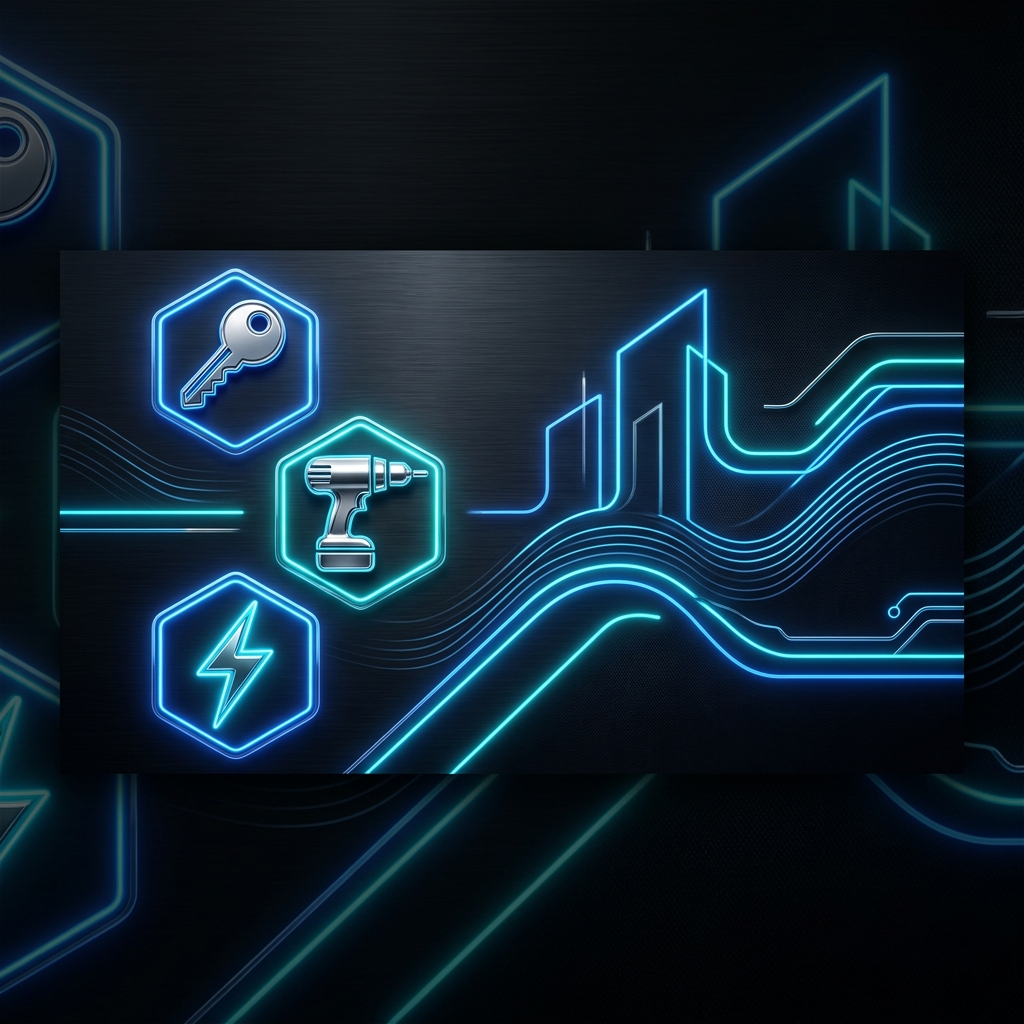
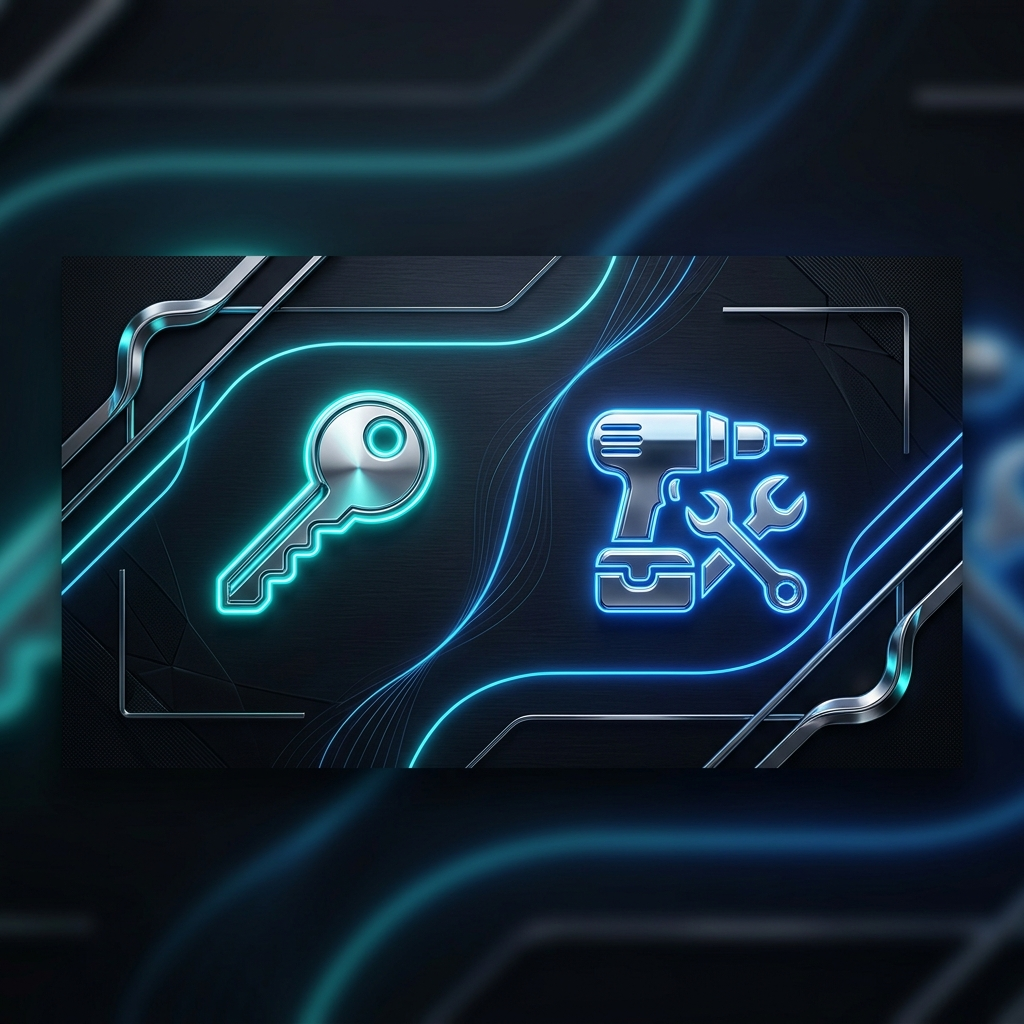
Remove electrical services from active templates and add Telegram notifier script with .gitignore

diff --git a/app.js b/app.js
@@ -23,17 +23,17 @@ const agentTemplates = {
     marketing: [
         {
             title: "🏠 פתרון כולל לבית (מטריית שירותים)",
-            text: "הכתובת שלכם לכל תיקון ושדרוג בבית! 🛠⚡🔑\n\nנמאס לכם לחפש בעל מקצוע שונה לכל בעיה קטנה בבית, או לחכות שעות למישהו שיגיע מרחוק ויגבה מחיר מופקע?\n\nZA - פתרונות ושירותי בית מביא לכם את השקט הנפשי שאתם צריכים, כאן בירוחם והסביבה.\n\nאנו מרכזים עבורכם את כל פתרונות התחזוקה תחת קורת גג אחת:\n🔑 נעילה ואבטחה: פריצה שקטה, החלפת צילינדרים איכותיים, ותיקון מנגנונים.\n🛠 תיקונים והתקנות (הנדימן): תליית טלוויזיות, הרכבת רהיטים, מדפים, ותיקונים כלליים.\n⚡ עבודות חשמל ותשתיות: גופי תאורה, פתרון תקלות וקצרים, והתקנת מערכות חשמל.\n\nמתחייב לעבודה מקצועית, פילוס מדויק, שמירה על סדר וניקיון מופתי בסיום העבודה, ומחיר הוגן ושקוף!\n\n📞 לתיאום והתייעצות מהירה, שלחו לנו הודעה בוואטסאפ או התקשרו: [טלפון]",
+            text: "הכתובת שלכם לכל תיקון, התקנה ונעילה בבית! 🛠🔑\n\nנמאס לכם לחפש בעל מקצוע שונה לכל בעיה קטנה בבית, או לחכות שעות למישהו שיגיע מרחוק ויגבה מחיר מופקע?\n\nZA - פתרונות ושירותי בית מביא לכם את השקט הנפשי שאתם צריכים, כאן בירוחם והסביבה.\n\nאנו מרכזים עבורכם את כל פתרונות התחזוקה והנעילה לבית:\n🔑 נעילה ואבטחה: פריצה שקטה, החלפת צילינדרים איכותיים (רב-בריח, מולטילוק ועוד), ותיקון מנגנונים.\n🛠 תיקונים והתקנות (הנדימן): תליית טלוויזיות, הרכבת רהיטים, מדפים, ותיקונים כלליים.\n\nמתחייב לעבודה מקצועית, פילוס מדויק, שמירה על סדר וניקיון מופתי בסיום העבודה, ומחיר הוגן ושקוף!\n\n📞 לתיאום והתייעצות מהירה, שלחו לנו הודעה בוואטסאפ או התקשרו: [טלפון]",
             placeholder: "הכנס את מספר הטלפון שלך"
         },
         {
             title: "🔒 בטיחות, נעילה ותחזוקת הבית",
-            text: "שומרים על הבית בטוח ותקין - ZA פתרונות ושירותי בית 🔒⚡\n\nהקיץ מתקרב וזה הזמן לוודא שהבית שלכם בטוח לחלוטין - הן מבחינת מערכות הנעילה והן מבחינת בטיחות החשמל.\n\nאנו מציעים שירות מקיף לבדיקה, תיקון ושדרוג הבית שלכם:\n* בטיחות נעילה: שדרוג לצילינדרים מוגני פריצה בדלתות הכניסה.\n* תקינות חשמל: התקנת שקעים, בדיקת לוחות חשמל, מניעת עומסים והתקנת גופי תאורה חסכוניים.\n* תחזוקה שוטפת: פתרון בעיות בלאי בבית, תליית אביזרים והתקנות.\n\nשירות מקומי מהיר בירוחם והסביבה. אמינות ללא פשרות ומחירים הגונים לתושבי האזור.\n\n📞 לתיאום ביקור או בדיקה: [טלפון]",
+            text: "שומרים על הבית בטוח ותקין - ZA פתרונות ושירותי בית 🔒🛠\n\nהקיץ מתקרב וזה הזמן לוודא שמערכות הנעילה והדלתות בבית שלכם בטוחות לחלוטין ותקינות.\n\nאנו מציעים שירות מקיף לבדיקה, תיקון ושדרוג מערכות הנעילה והתחזוקה בבית:\n* בטיחות נעילה: שדרוג לצילינדרים מוגני פריצה בדלתות הכניסה.\n* תיקון דלתות: פתרון לדלתות גוררות, מפתחות קשים לסיבוב או מנגנונים תקועים.\n* תחזוקה כללית: פתרון בעיות בלאי בבית, חיזוק צירים, ותיקונים קטנים.\n\nשירות מקומי מהיר בירוחם והסביבה. אמינות ללא פשרות ומחירים הגונים לתושבי האזור.\n\n📞 לתיאום ביקור או בדיקה: [טלפון]",
             placeholder: "הכנס את מספר הטלפון שלך"
         },
         {
             title: "🖥 פרויקטים, הרכבות ותלייה",
-            text: "קניתם רהיט או טלוויזיה חדשה? תשאירו את העבודה הקשה לנו! 🖥🛋\n\nעברתם דירה? רוצים לחדש את מראה הבית? אל תבזבזו את סוף השבוע שלכם על מדידות, הוראות הרכבה מסובכות או פחד שהקיר לא יחזיק.\n\nZA - פתרונות ושירותי בית מגיע אליכם לעשות סדר:\n* הרכבה מקצועית ומהירה של ארונות, שידות ורהיטים מכל הסוגים (איקאה ועוד).\n* תליית מסכי טלוויזיה בזווית מושלמת (כולל קירות גבס ובטון).\n* התקנת מדפים, וילונות, תמונות ואביזרי אמבטיה בפילוס מושלם.\n* עבודות נעילה וחשמל נלוות לפי הצורך.\n\nמתחייב לעבודה סופר-נקייה (לא משאירים אבק מאחורינו!) ושירות הוגן ואדיב.\n\n📞 להזמנת שירות או לקבלת הערכת מחיר: [טלפון]",
+            text: "קניתם רהיט או טלוויזיה חדשה? תשאירו את העבודה הקשה לנו! 🖥🛋\n\nעברתם דירה? רוצים לחדש את מראה הבית? אל תבזבזו את סוף השבוע שלכם על מדידות, הוראות הרכבה מסובכות או פחד שהקיר לא יחזיק.\n\nZA - פתרונות ושירותי בית מגיע אליכם לעשות סדר:\n* הרכבה מקצועית ומהירה של ארונות, שידות ורהיטים מכל הסוגים (איקאה ועוד).\n* תליית מסכי טלוויזיה בזווית מושלמת (כולל קירות גבס ובטון).\n* התקנת מדפים, וילונות, תמונות ואביזרי אמבטיה בפילוס מושלם.\n* עבודות נעילה ותיקונים נלווים לפי הצורך.\n\nמתחייב לעבודה סופר-נקייה (לא משאירים אבק מאחורינו!) ושירות הוגן ואדיב.\n\n📞 להזמנת שירות או לקבלת הערכת מחיר: [טלפון]",
             placeholder: "הכנס את מספר הטלפון שלך"
         }
     ],

diff --git a/telegram_notifier.py b/telegram_notifier.py
@@ -1,0 +1,145 @@
+import json
+import urllib.request
+import urllib.parse
+import sys
+import datetime
+import os
+
+# Configuration path
+CONFIG_PATH = r"C:\antigravety\projects\business_manager\config.json"
+
+# AD templates (Locksmithing & Handyman only - no electrical)
+ad_options = {
+    1: """🏠 *אפשרות 1: פתרון כולל לבית (מטריית שירותים)*
+
+הכתובת שלכם לכל תיקון, התקנה ונעילה בבית! 🛠🔑
+
+נמאס לכם לחפש בעל מקצוע שונה לכל בעיה קטנה בבית, או לחכות שעות למישהו שיגיע מרחוק ויגבה מחיר מופקע?
+
+ZA - פתרונות ושירותי בית מביא לכם את השקט הנפשי שאתם צריכים, כאן בירוחם והסביבה.
+
+אנו מרכזים עבורכם את כל פתרונות התחזוקה והנעילה לבית:
+🔑 נעילה ואבטחה: פריצה שקטה, החלפת צילינדרים איכותיים (רב-בריח, מולטילוק ועוד), ותיקון מנגנונים.
+🛠 תיקונים והתקנות (הנדימן): תליית טלוויזיות, הרכבת רהיטים, מדפים, ותיקונים כלליים.
+
+מתחייב לעבודה מקצועית, פילוס מדויק, שמירה על סדר וניקיון מופתי בסיום העבודה, ומחיר הוגן ושקוף!""",
+    
+    2: """🔒 *אפשרות 2: שומרים על בטיחות ותקינות הבית*
+
+שומרים על הבית בטוח ותקין - ZA פתרונות ושירותי בית 🔒🛠
+
+הקיץ מתקרב וזה הזמן לוודא שמערכות הנעילה והדלתות בבית שלכם בטוחות לחלוטין ותקינות.
+
+אנו מציעים שירות מקיף לבדיקה, תיקון ושדרוג מערכות הנעילה והתחזוקה בבית:
+* בטיחות נעילה: שדרוג לצילינדרים מוגני פריצה בדלתות הכניסה.
+* תיקון דלתות: פתרון לדלתות גוררות, מפתחות קשים לסיבוב או מנגנונים תקועים.
+* תחזוקה כללית: פתרון בעיות בלאי בבית, חיזוק צירים, ותיקונים קטנים.
+
+שירות מקומי מהיר בירוחם והסביבה. אמינות ללא פשרות ומחירים הגונים לתושבי האזור.""",
+    
+    3: """🖥 *אפשרות 3: פרויקטים, הרכבות ותלייה*
+
+קניתם רהיט או טלוויזיה חדשה? תשאירו את העבודה הקשה לנו! 🖥🛋
+
+עברתם דירה? רוצים לחדש את מראה הבית? אל תבזבזו את סוף השבוע שלכם על מדידות, הוראות הרכבה מסובכות או פחד שהקיר לא יחזיק.
+
+ZA - פתרונות ושירותי בית מגיע אליכם לעשות סדר:
+* הרכבה מקצועית ומהירה של ארונות, שידות ורהיטים מכל הסוגים (איקאה ועוד).
+* תליית מסכי טלוויזיה בזווית מושלמת (כולל קירות גבס ובטון).
+* התקנת מדפים, וילונות, תמונות ואביזרי אמבטיה בפילוס מושלם.
+* עבודות נעילה ותיקונים נלווים לפי הצורך.
+
+מתחייב לעבודה סופר-נקייה (לא משאירים אבק מאחורינו!) ושירות הוגן ואדיב."""
+}
+
+# Publishing strategy schedule
+weekly_schedule = {
+    # 0 = Monday, 6 = Sunday
+    6: { # Sunday
+        "time": "18:00",
+        "ad_id": 3,
+        "rationale": "יום ראשון בערב הוא הזמן שבו אנשים חוזרים לשבוע העבודה ומבינים שאין להם פנאי להרכיב את הרהיטים או לתלות את הטלוויזיה שהם קנו בשבוע שעבר. הפרסום פוגש אותם בדיוק כשהם מתכננים את השבוע."
+    },
+    1: { # Tuesday (Python weekday for Tuesday is 1 if Monday is 0)
+        "time": "11:00",
+        "ad_id": 2,
+        "rationale": "אמצע השבוע הוא זמן מצוין לפנות לבעלי בתים ועסקים לגבי שדרוגי אבטחה ותיקון דלתות תקועות. אנשים פעילים בנייד בשעות הבוקר המאוחרות ונוח להם לתאם עבודה לימים הקרובים."
+    },
+    3: { # Thursday (Python weekday for Thursday is 3 if Monday is 0)
+        "time": "19:00",
+        "ad_id": 1,
+        "rationale": "יום חמישי בערב הוא זמן ההיערכות לסוף השבוע. אנשים עוברים על רשימת התיקונים המצטברת בבית ורוצים 'לסגור' אותם עם בעל מקצוע לקראת שישי או תחילת שבוע הבא."
+    }
+}
+
+def load_config():
+    if not os.path.exists(CONFIG_PATH):
+        return None
+    try:
+        with open(CONFIG_PATH, 'r', encoding='utf-8') as f:
+            return json.load(f)
+    except:
+        return None
+
+def send_telegram_message(token, chat_id, message_text):
+    url = f"https://api.telegram.org/bot{token}/sendMessage"
+    data = urllib.parse.urlencode({
+        'chat_id': chat_id,
+        'text': message_text,
+        'parse_mode': 'Markdown'
+    }).encode('utf-8')
+    
+    req = urllib.request.Request(url, data=data)
+    try:
+        with urllib.request.urlopen(req) as response:
+            return response.read()
+    except Exception as e:
+        print("Error sending message to Telegram:", e)
+        return None
+
+def run_notifications(is_test=False):
+    config = load_config()
+    if not config or config.get("telegram_bot_token") == "YOUR_BOT_TOKEN_HERE":
+        print("Telegram bot is not configured yet in config.json.")
+        return
+        
+    token = config.get("telegram_bot_token")
+    chat_id = config.get("telegram_chat_id")
+    
+    if is_test:
+        test_msg = "🔌 *חיבור בוט טלגרם ZA פתרונות ושירותי בית עבר בהצלחה!* \n\nמעכשיו תקבל כאן הנחיות פרסום ופוסטים מוכנים להעתקה."
+        send_telegram_message(token, chat_id, test_msg)
+        print("Test message sent successfully.")
+        return
+
+    # Check today's weekday
+    today = datetime.datetime.today().weekday()
+    if today not in weekly_schedule:
+        print("No scheduled posts for today.")
+        return
+        
+    sched = weekly_schedule[today]
+    ad_text = ad_options[sched["ad_id"]]
+    
+    msg = f"""📢 *התראת פרסום שבועי - ZA פתרונות ושירותי בית*
+
+⏰ *מתי לפרסם:* היום בשעה **{sched['time']}**
+
+💡 *למה היום ובשעה זו?* 
+{sched['rationale']}
+
+🖼 *הנחיות לתמונה:* פרסם פוסט זה יחד עם תמונת המותג הכהה **ad_banner_generic.png** השמורה בתיקיית העסק שלך!
+
+---
+📝 *טקסט לפוסט (העתק והדבק):*
+
+{ad_text}
+
+📱 [אל תשכח להוסיף את מספר הטלפון שלך כאן בסוף!]"""
+
+    send_telegram_message(token, chat_id, msg)
+    print("Scheduled marketing advice sent to Telegram.")
+
+if __name__ == "__main__":
+    is_test = "--test" in sys.argv
+    run_notifications(is_test)
